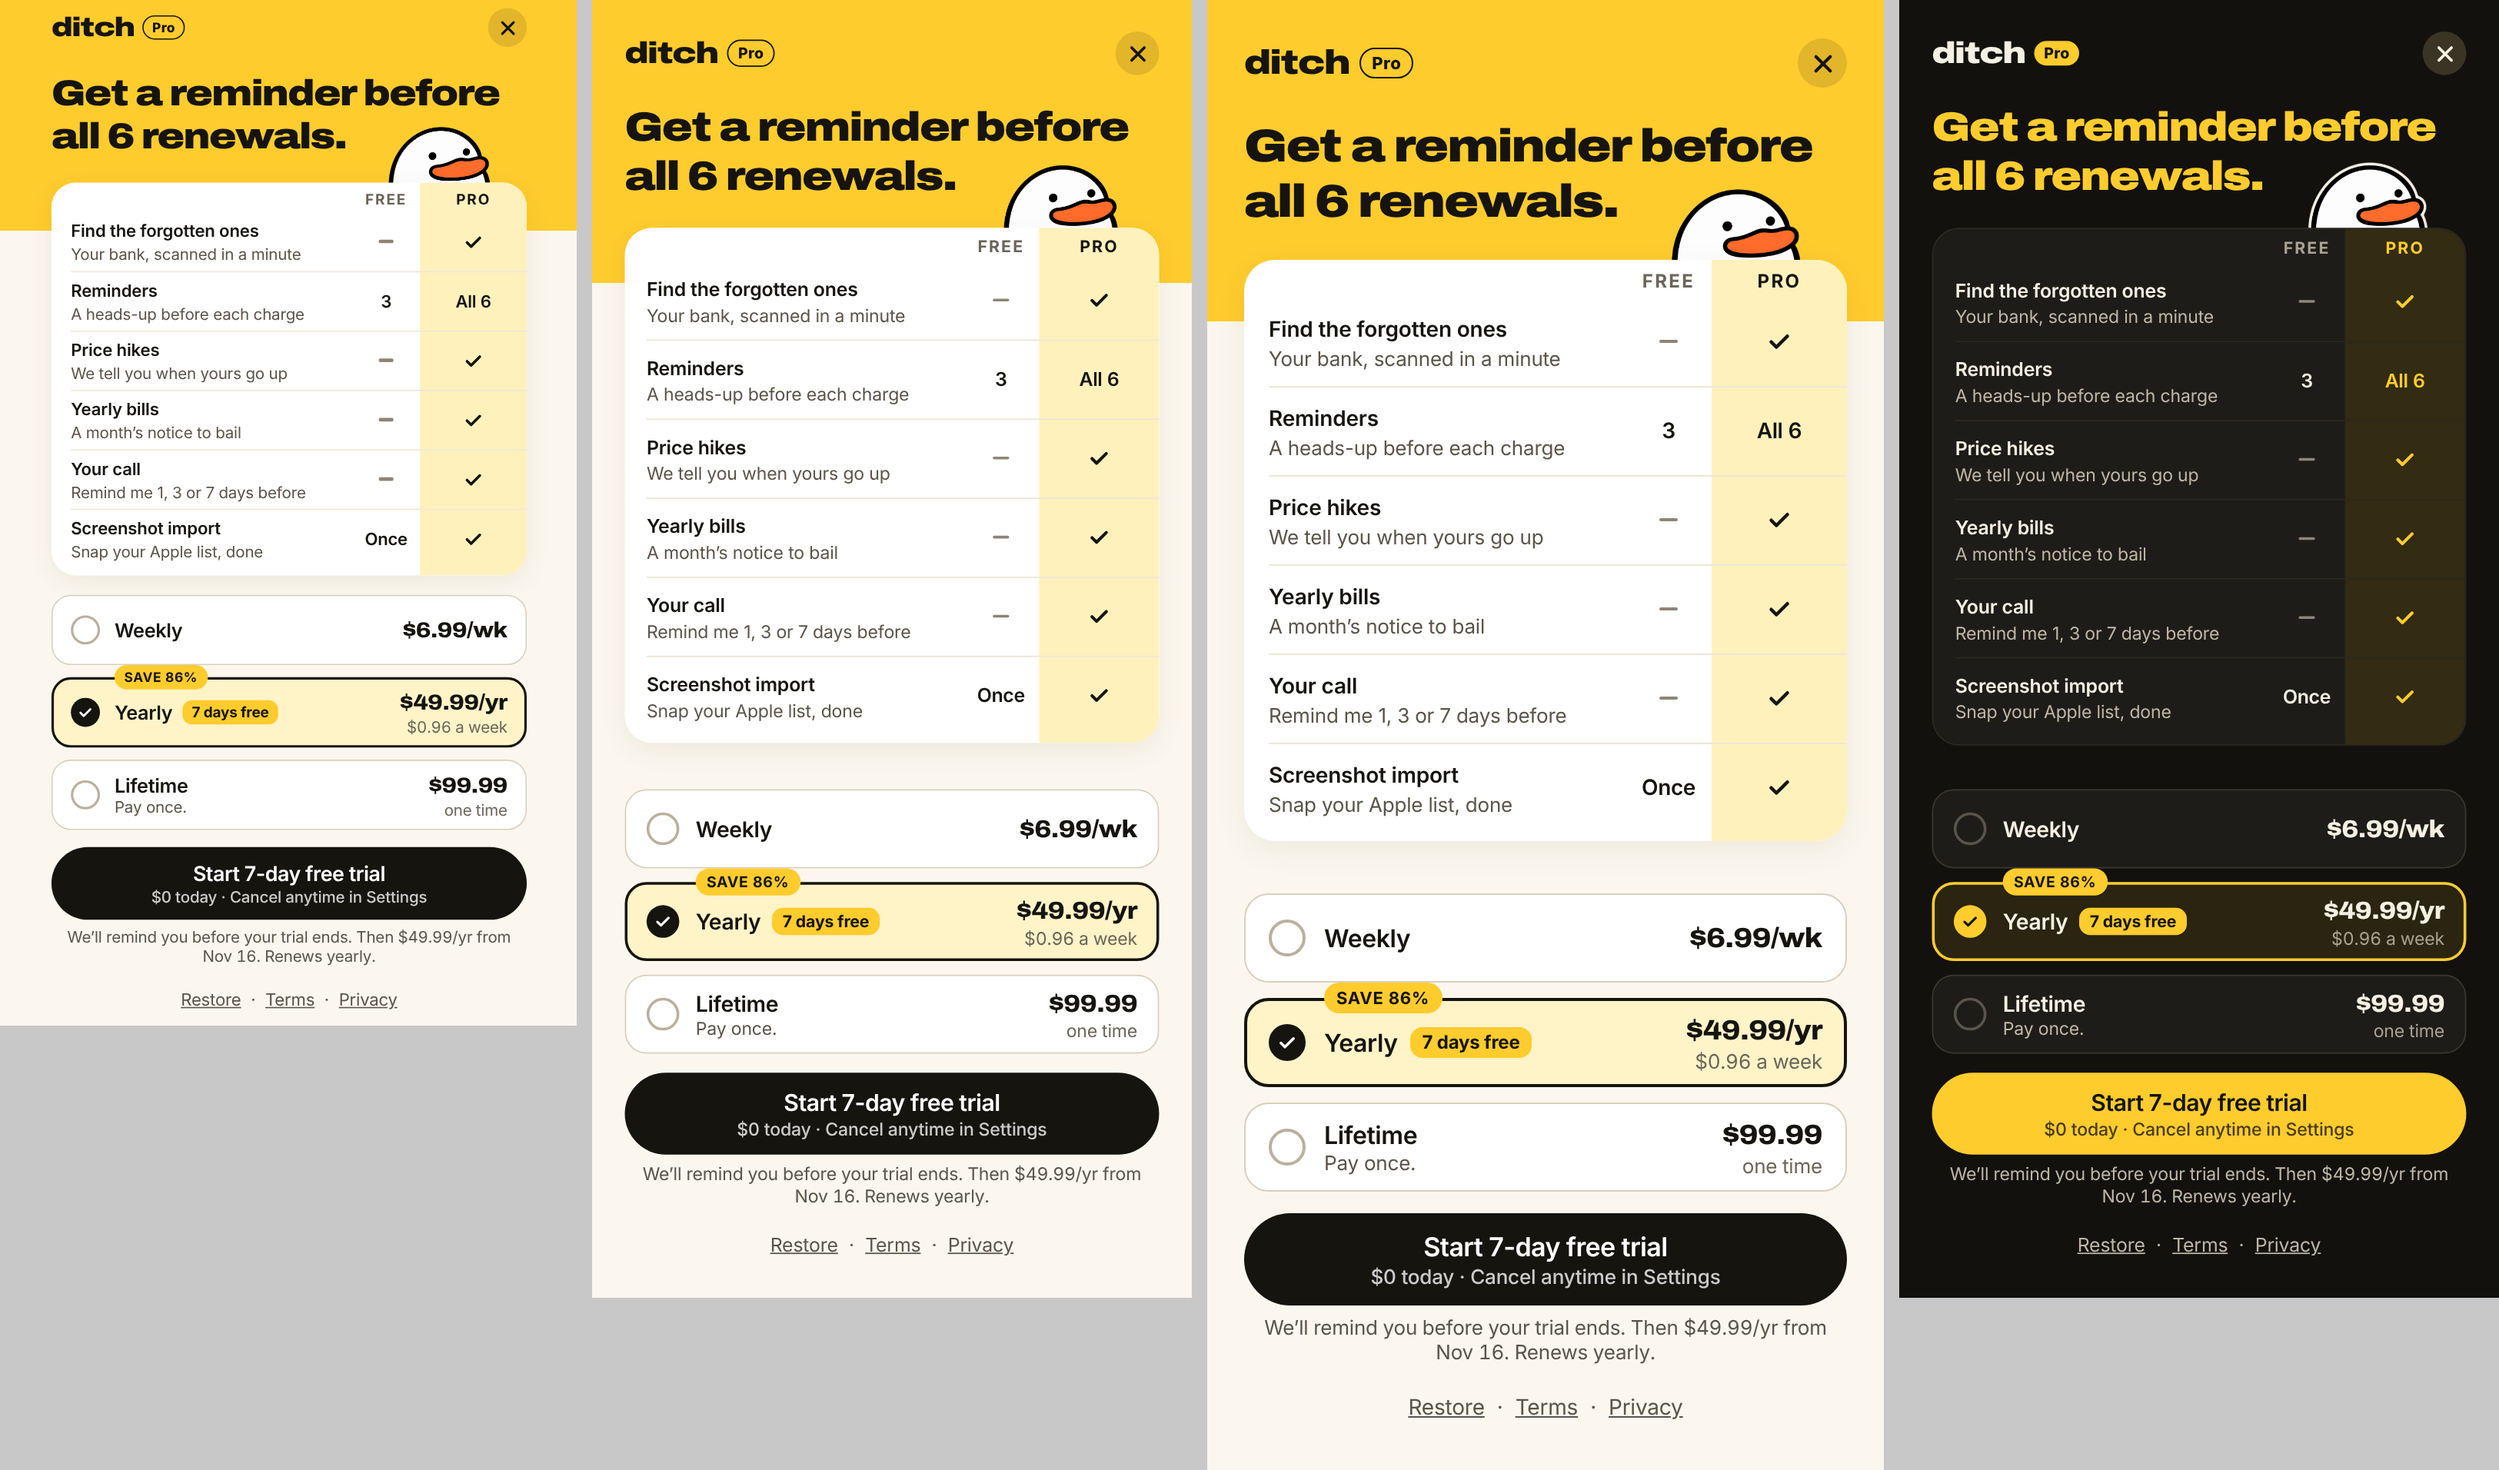
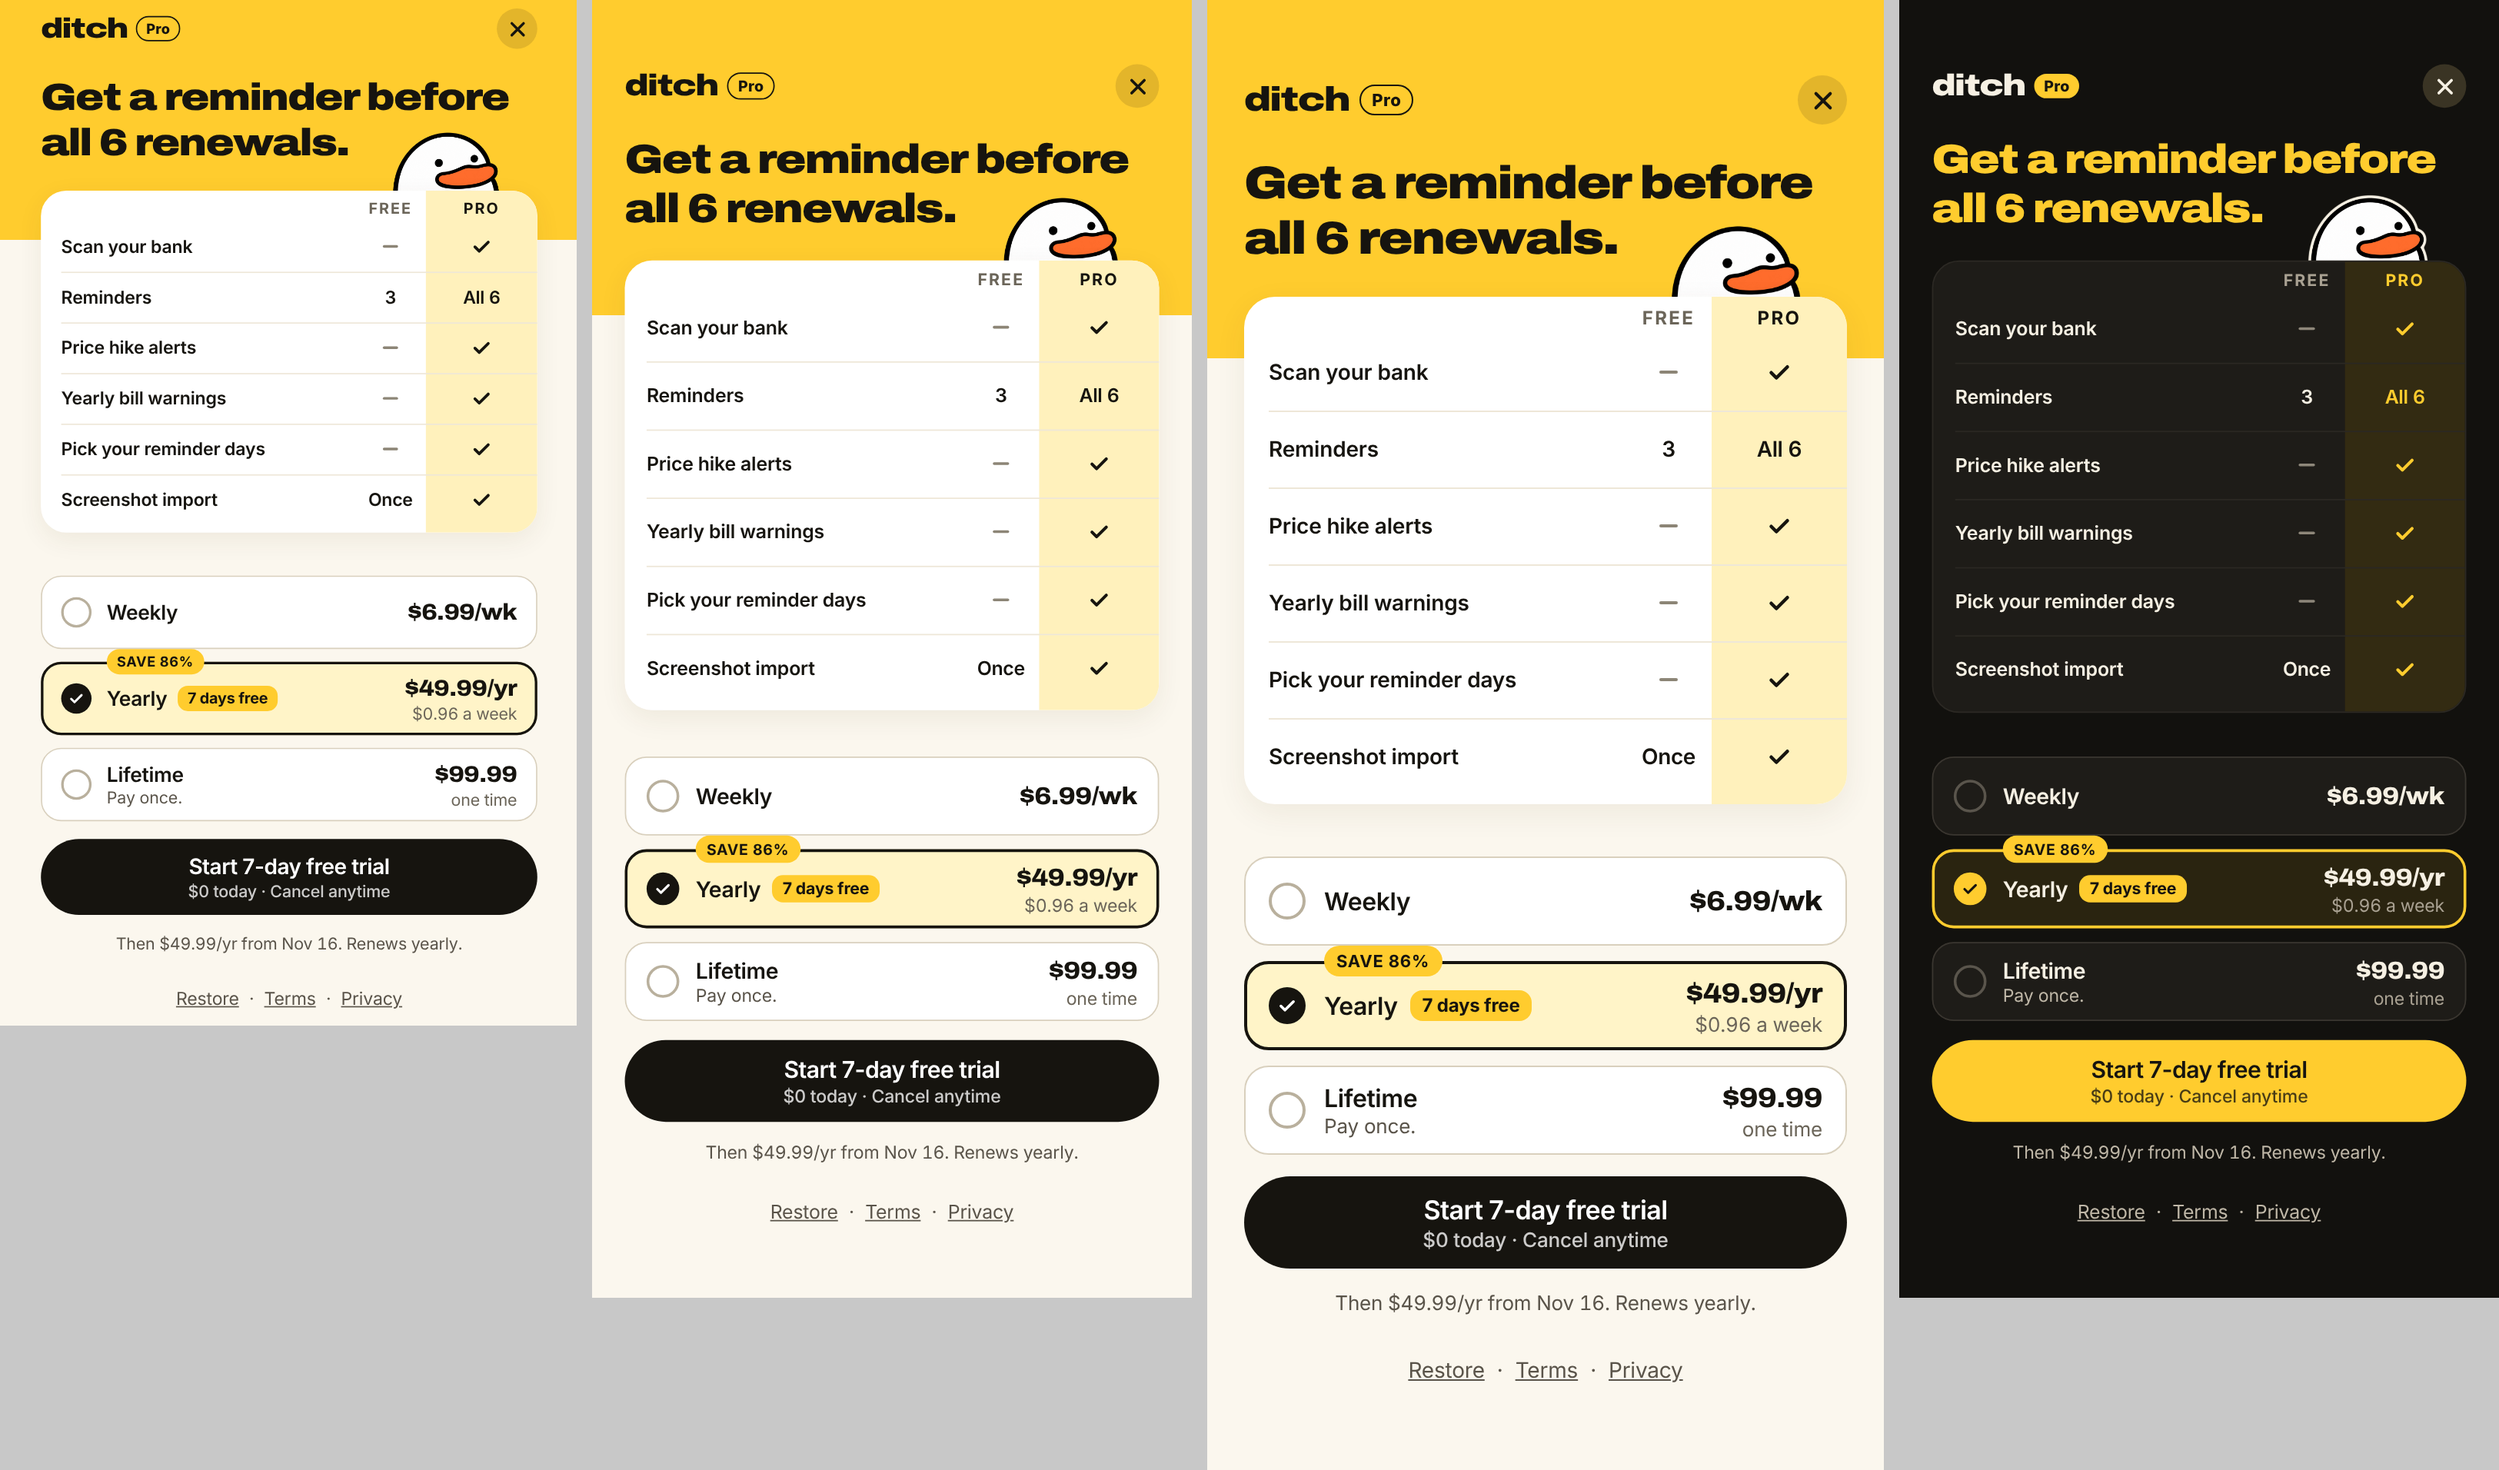
Paywall: one short name per row, no second lines; one-line terms under the button
Claude-Session: https://claude.ai/code/session_01Q8GFjWCZXwnj2nAcxjTkxh

diff --git a/src/app/paywall.tsx b/src/app/paywall.tsx
@@ -56,27 +56,27 @@ type Row = { label: string; free: Cell; pro: Cell; /** One plain line under the 
 // Only rows where Pro is different, in Ditch's own words (owner, Nov 18: the table sells; "track every
 // subscription" is free on both sides, so it said nothing). Only features that work in this build (App Review 2.1).
 function rowsFor(n: number): Row[] {
-  // Wording B (owner, Nov 18): short, dry, on your side. Only real, working features; nothing overclaims.
+  // Owner, Nov 18: "way too much text". One short name per row, no second line. Only real, working features.
   return [
     // The headline feature once it ships (DECISIONS #64, trial-gated). Test builds only until then. Provider never named.
-    ...(showBankScan() ? [{ label: 'Find the forgotten ones', sub: 'Your bank, scanned in a minute', free: 'no', pro: 'yes' }] : []),
+    ...(showBankScan() ? [{ label: 'Scan your bank', free: 'no', pro: 'yes' }] : []),
     // Personal: "All 6" when they track more than the free 3.
-    { label: 'Reminders', sub: 'A heads-up before each charge', free: '3', pro: n > 3 ? `All ${n}` : 'Unlimited' },
-    // Price watch (DECISIONS #60): our checked price for their plan went up.
-    { label: 'Price hikes', sub: 'We flag it when a price goes up', free: 'no', pro: 'yes' },
+    { label: 'Reminders', free: '3', pro: n > 3 ? `All ${n}` : 'Unlimited' },
+    // Price watch (DECISIONS #60).
+    { label: 'Price hike alerts', free: 'no', pro: 'yes' },
     // The 30-day warning before yearly charges (DECISIONS #60).
-    { label: 'Yearly bills', sub: 'A month’s notice to bail', free: 'no', pro: 'yes' },
+    { label: 'Yearly bill warnings', free: 'no', pro: 'yes' },
     // Free can change the time of day; Pro picks the days before.
-    { label: 'Your call', sub: 'Remind me 1, 3 or 7 days before', free: 'no', pro: 'yes' },
+    { label: 'Pick your reminder days', free: 'no', pro: 'yes' },
     ...(WIDGET_READY ? [{ label: `Lock${NB}Screen widget`, free: 'no', pro: 'yes' }] : []),
-    // The first import is free (DECISIONS #34), so Free says "Once" and Pro is any time.
-    ...(showImport() ? [{ label: 'Screenshot import', sub: 'Snap your Apple list, done', free: 'Once', pro: 'yes' }] : []),
+    // The first import is free (DECISIONS #34), so Free says "Once".
+    ...(showImport() ? [{ label: 'Screenshot import', free: 'Once', pro: 'yes' }] : []),
   ];
 }
 
 /** 320pt wide: the same rows in fewer words, so each stays on one line. */
 const SHORT: Record<string, string> = {
-  'Find the forgotten ones': 'Forgotten ones',
+  'Pick your reminder days': 'Pick the days',
 };
 
 // The fixed paywall canvas (see the scaling note in Paywall).
@@ -86,8 +86,8 @@ const EDGE_W = 24;
 /** Everything on the canvas except the table rows (hero, table header, plans, button, price line, links). */
 const CANVAS_BASE = 570;
 /** Table row height range: 52pt (SE) to 66pt (fewer rows get more air). Each row has a label and a line under it. */
-const ROW_MIN = 46;
-const ROW_MAX = 58;
+const ROW_MIN = 40;
+const ROW_MAX = 50;
 
 const CELL_TEXT = { fontFamily: F.semi, fontSize: 14, lineHeight: 20 } as const;
 const LABEL_TEXT = { fontFamily: F.medium, fontSize: 14, letterSpacing: -0.1 } as const;
@@ -352,13 +352,13 @@ export default function Paywall() {
           </View>
 
           <View style={{ height: 14 }} />
-          <Button label={cta} sub={planId === 'yearly' ? `${formatWholeMoney(0, yearly.currency)} today · Cancel anytime in Settings` : undefined} onPress={buy} height={60} />
+          <Button label={cta} sub={planId === 'yearly' ? `${formatWholeMoney(0, yearly.currency)} today · Cancel anytime` : undefined} onPress={buy} height={60} />
           {/* A fixed slot, so the button never moves when the plan changes. Price and the real start date by the
             button (App Review); no reminder text (owner, Nov 10). */}
           <View style={{ height: 44, alignItems: 'center', justifyContent: 'center', paddingHorizontal: planId === 'yearly' ? 0 : 4 }}>
             <Txt v="fine" tone="fg2" num center accessibilityLiveRegion="polite">
               {planId === 'yearly'
-                ? `We’ll remind you before your trial ends. Then ${yearly.priceString}/yr from ${shortDate(charge).replace(' ', NB)}. Renews${NB}yearly.`
+                ? `Then ${yearly.priceString}/yr from ${shortDate(charge).replace(' ', NB)}. Renews${NB}yearly.`
                 : planId === 'weekly'
                   ? `${weekly.priceString} today, then every week. Renews weekly. Cancel${NB}anytime.`
                   : `${lifetime.priceString} once. Pro for good, nothing${NB}renews.`}

diff --git a/docs/MANUAL-TESTS.md b/docs/MANUAL-TESTS.md
@@ -86,16 +86,10 @@ Delete Ditch's data first so the onboarding shows again: Settings → Your data 
 **Settings → About → Sources**
 - [ ] Settings → About Ditch → **Sources** lists the studies (C+R Research 2022, Self Financial 2026, CNET/YouGov 2025, Chase 2021, West Monroe 2021) and each link opens the study.
 
-## 1o. Paywall v22: the table, wording B (Nov 18)
-- [ ] Headline "Get a reminder before all N renewals." with the duck, then the Free vs Pro table (soft yellow Pro column):
-  - (TestFlight only) Find the forgotten ones · Your bank, scanned in a minute
-  - Reminders · A heads-up before each charge · 3 vs All N
-  - Price hikes · We flag it when a price goes up
-  - Yearly bills · A month's notice to bail
-  - Your call · Remind me 1, 3 or 7 days before
-  - Screenshot import · Snap your Apple list, done · Free: Once
+## 1o. Paywall v22: the table, short (Nov 18)
+- [ ] Headline "Get a reminder before all N renewals." with the duck, then a Free vs Pro table with one short name per row: (TestFlight only) Scan your bank · Reminders 3 vs All N · Price hike alerts · Yearly bill warnings · Pick your reminder days · Screenshot import (Free: Once).
 - [ ] Weekly $6.99/wk; Yearly picked, soft yellow, yellow "SAVE 86%", "7 days free", "$0.96 a week"; Lifetime $99.99 "Pay once."
-- [ ] Button: "Start 7-day free trial" with "$0 today · Cancel anytime in Settings" inside. Under it: "We'll remind you before your trial ends. Then $49.99/yr from (date). Renews yearly."
+- [ ] Button: "Start 7-day free trial" with "$0 today · Cancel anytime" inside. Under it one line: "Then $49.99/yr from (date). Renews yearly."
 - [ ] Tap Weekly / Lifetime: the button and the line under it change; the button never moves.
 - [ ] Same picture on every iPhone; dark mode readable.
 
